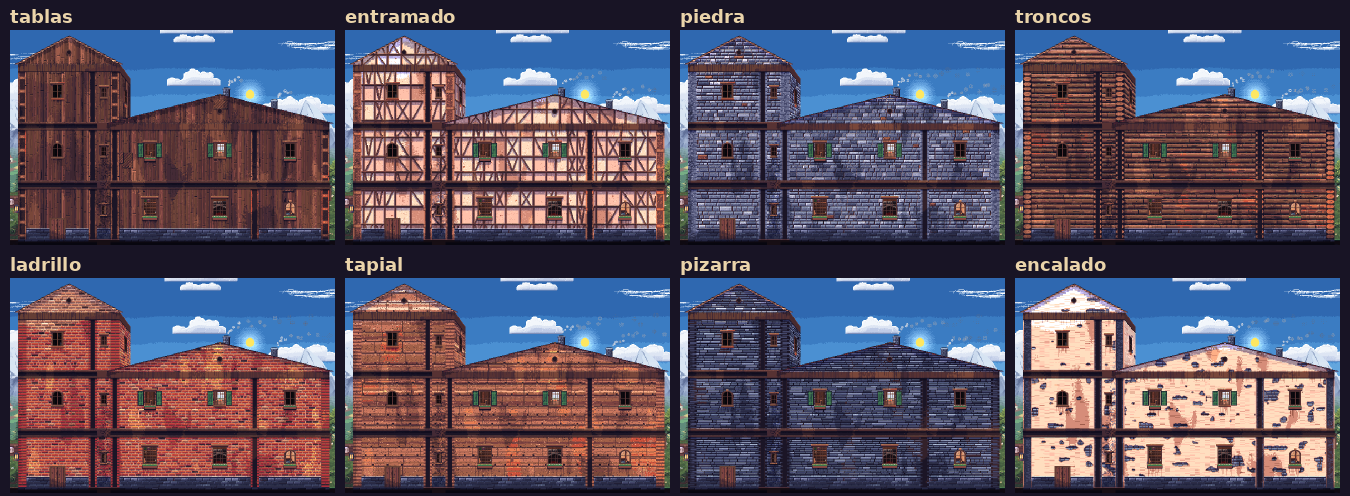
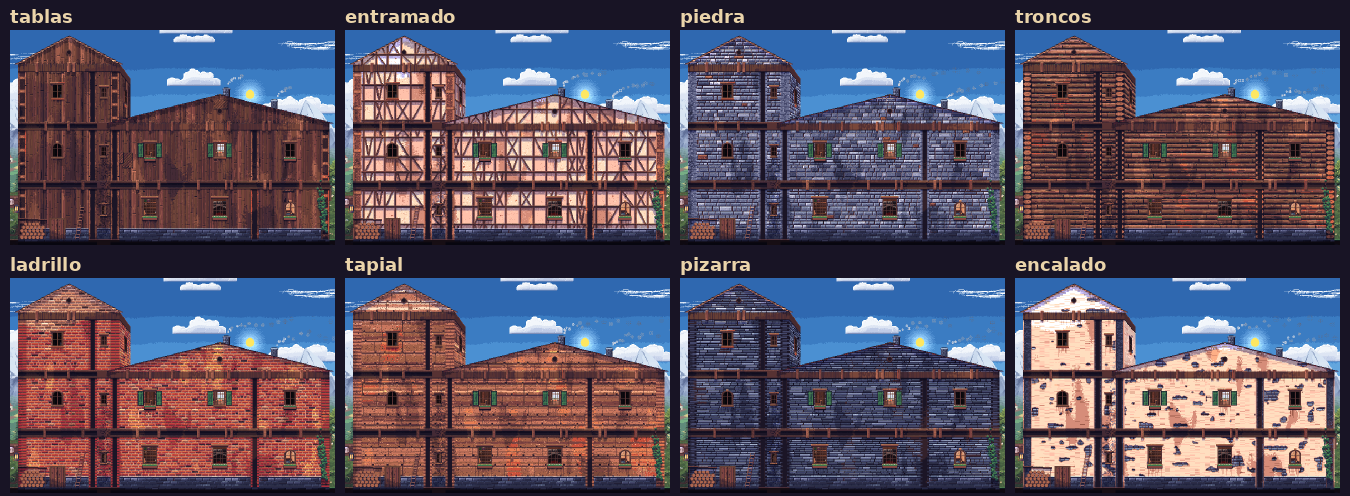
Fachada envejecida, pasos 6 y 7: testas de viga y detalles sueltos
En la vista desde fuera, las vigas de cada forjado asoman a saltos con su sombra.
Y unos pocos detalles fijos por partida en los huecos de la planta baja: hiedra
en una esquina, leña bajo un tejadillo, la bajante con el tonel de lluvia y una
escalera apoyada. La escena pasa la semilla de la partida a la tapa.

Claude-Session: https://claude.ai/code/session_011Wau2BQvy7vSDxLpNqRvSa

diff --git a/src/world/rooms/detalles.ts b/src/world/rooms/detalles.ts
@@ -1,0 +1,232 @@
+/**
+ * Lo que rompe la repetición de la fachada vista desde fuera: las testas de las vigas que
+ * asoman de cada forjado, con su sombra, y unos pocos detalles sueltos, fijos por partida
+ * (hiedra en una esquina, leña bajo un tejadillo, la bajante con su tonel de lluvia y una
+ * escalera apoyada). Todo pinta su relieve (`b.level`) para la luz con ambiente.
+ */
+import { Rng } from '../../core/rng';
+import { P } from '../../art/palette';
+import type { PixelBuffer } from '../../art/pixel';
+import { step } from './envejecer';
+
+/** Oscurece un escalón lo ya pintado (la sombra de algo que sale de la pared). */
+function shade(b: PixelBuffer, x: number, y: number) {
+  if (!b.inside(x, y)) return;
+  const i = y * b.w + x;
+  const c = b.data[i]!;
+  if (c >>> 24) b.data[i] = step(c, 'dark');
+}
+
+/**
+ * Las testas de las vigas a lo largo de un forjado (de `x0` a `x1`, con su cara de arriba en
+ * `y` y `h` de grueso): cada 14 a 30 píxeles, la punta de una viga de 6 × `h + 2` con los anillos
+ * en la testa, que sobresale y deja su sombra debajo y a un lado.
+ */
+export function beamEnds(
+  b: PixelBuffer,
+  x0: number,
+  x1: number,
+  y: number,
+  h: number,
+  rng: Rng,
+  avoid: (x: number) => boolean,
+): void {
+  // Cada tanto y a saltos (de dos en dos a veces, con huecos largos): no una fila de dientes.
+  for (let x = x0 + 10 + rng.int(0, 30); x < x1 - 10; x += 34 + rng.int(0, 46)) {
+    if (avoid(x)) continue;
+    const pair = rng.chance(0.3);
+    for (const xx of pair ? [x, x + 10] : [x]) {
+      if (xx >= x1 - 8) continue;
+      const w = 5;
+      const top = y - 1;
+      const bh = h + 2;
+      // La sombra: debajo (dos filas) y a la derecha (una columna), en la pared.
+      for (let i = 1; i <= w + 1; i++) {
+        shade(b, xx + i, top + bh);
+        shade(b, xx + i, top + bh + 1);
+      }
+      for (let j = 1; j < bh; j++) shade(b, xx + w, top + j);
+      b.level = 6;
+      b.rect(xx, top, w, bh, P.rust);
+      b.hline(xx, top, w, P.oak);
+      b.vline(xx, top, bh, P.oak);
+      b.hline(xx, top + bh - 1, w, P.bark);
+      b.vline(xx + w - 1, top + 1, bh - 1, P.bark);
+      // Los anillos de la testa y alguna raja.
+      b.set(xx + 2, top + Math.floor(bh / 2), P.bark);
+      b.set(xx + 2, top + Math.floor(bh / 2) - 1, P.cocoa);
+      if (rng.chance(0.5)) b.vline(xx + 1 + rng.int(0, 2), top + 1, 2 + rng.int(0, 2), P.bark);
+    }
+    b.level = 0;
+  }
+}
+
+/**
+ * Hiedra que trepa por una esquina: desde `x` (al pie, en `ground`) sube hasta `top`, más
+ * tupida abajo; los tallos, a tirones, y las hojas en matas de dos o tres tonos.
+ */
+export function ivy(
+  b: PixelBuffer,
+  x: number,
+  ground: number,
+  top: number,
+  dir: 1 | -1,
+  rng: Rng,
+): void {
+  const stems: { x: number; y: number }[] = [];
+  for (let s = 0; s < 4; s++) {
+    let sx = x + dir * rng.int(0, 10);
+    let sy = ground - 1;
+    const end = top + rng.int(0, Math.max(1, Math.floor((ground - top) * 0.5)));
+    while (sy > end) {
+      stems.push({ x: sx, y: sy });
+      sy -= 1;
+      if (rng.chance(0.3)) sx += dir * (rng.chance(0.65) ? 1 : -1);
+    }
+  }
+  b.level = 5;
+  for (const p of stems) b.set(p.x, p.y, P.bark);
+  // Matas de hojas a lo largo de los tallos: cada una, un grumo de 2 × 2 a 3 × 3.
+  for (const p of stems) {
+    const k = (ground - p.y) / Math.max(1, ground - top);
+    if (!rng.chance(0.42 - k * 0.22)) continue;
+    const r = rng.chance(0.5) ? 2 : 1;
+    const ox = p.x + rng.int(-2, 2);
+    const oy = p.y + rng.int(-1, 1);
+    for (let j = -r; j <= r; j++)
+      for (let i = -r; i <= r; i++) {
+        if (i * i + j * j > r * r + 1 || rng.chance(0.15)) continue;
+        b.set(ox + i, oy + j, j < 0 ? P.leaf : j === 0 ? P.forest : P.deep);
+      }
+    if (rng.chance(0.25)) b.set(ox, oy - r, P.lime);
+  }
+  b.level = 0;
+}
+
+/**
+ * Leña apilada contra la pared bajo un tejadillo de tablas: las testas de los troncos (con sus
+ * anillos) en tres o cuatro filas y, encima, el tejadillo con su sombra.
+ */
+export function woodpile(b: PixelBuffer, x: number, ground: number, rng: Rng): void {
+  const w = 40 + rng.int(0, 10);
+  const rows = 4 + rng.int(0, 1);
+  const r = 3;
+  // El tejadillo: tablas inclinadas sobre dos palos, y su sombra en la pared.
+  const roofY = ground - rows * 6 - 9;
+  for (let i = 0; i < w + 6; i++) for (let j = 1; j <= 3; j++) shade(b, x - 3 + i, roofY + 2 + j);
+  b.level = 4;
+  b.vline(x - 2, roofY + 2, ground - roofY - 2, P.bark);
+  b.vline(x + w + 1, roofY + 2, ground - roofY - 2, P.bark);
+  b.level = 6;
+  for (let i = 0; i < w + 8; i++) {
+    const yy = roofY + Math.floor((i * 3) / (w + 8));
+    b.set(x - 4 + i, yy, i % 6 === 0 ? P.plum : P.rust);
+    b.set(x - 4 + i, yy + 1, P.bark);
+    b.set(x - 4 + i, yy + 2, P.black);
+  }
+  // Los troncos, de abajo arriba, al tresbolillo.
+  b.level = 5;
+  for (let row = 0; row < rows; row++) {
+    const cy = ground - 4 - row * 6;
+    for (let cx = x + 3 + (row % 2) * 3; cx < x + w - 2; cx += 7) {
+      if (row === rows - 1 && rng.chance(0.3)) continue;
+      for (let j = -r; j <= r; j++)
+        for (let i = -r; i <= r; i++) {
+          if (i * i + j * j > r * r + 1) continue;
+          const edge = i * i + j * j > r * r - 1;
+          const ring = i * i + j * j <= 1;
+          b.set(cx + i, cy + j, edge ? (i + j > 0 ? P.bark : P.rust) : ring ? P.clay : P.oak);
+        }
+      b.set(cx, cy, P.rust);
+    }
+  }
+  b.level = 0;
+}
+
+/**
+ * La bajante del canalón, del alero (`top`) al suelo, con sus abrazaderas, y el tonel de lluvia
+ * al pie, de duelas y aros, con el agua asomando.
+ */
+export function rainBarrel(b: PixelBuffer, x: number, top: number, ground: number): void {
+  const bw = 16;
+  const bh = 20;
+  const bx = x - 6;
+  const by = ground - bh;
+  b.level = 4;
+  // El tubo: dos de ancho, con luz a la izquierda; acaba en un codo sobre el tonel.
+  for (let y = top; y < by - 2; y++) {
+    b.set(x - 1, y, P.steel);
+    b.set(x, y, P.slate);
+    b.set(x + 1, y, P.slate);
+    b.set(x + 2, y, P.navy);
+    shade(b, x + 3, y);
+    if ((y - top) % 22 === 10) {
+      b.hline(x - 2, y, 6, P.navy);
+    }
+  }
+  b.set(x - 1, by - 2, P.fog);
+  b.set(x - 1, by - 1, P.slate);
+  b.set(x, by - 2, P.slate);
+  // La sombra del tonel en la pared.
+  for (let j = 2; j < bh; j++) shade(b, bx + bw, by + j);
+  b.level = 5;
+  for (let j = 0; j < bh; j++) {
+    // Algo más ancho en medio (la panza).
+    const bulge = j > 2 && j < bh - 3 ? 1 : 0;
+    for (let i = -bulge; i < bw + bulge; i++) {
+      const k = (i + 3) % 3;
+      b.set(bx + i, by + j, i <= 0 ? P.rust : i >= bw - 1 ? P.bark : k === 0 ? P.cocoa : P.oak);
+    }
+  }
+  for (const j of [2, bh - 4]) b.hline(bx - 1, by + j, bw + 2, P.steel);
+  b.hline(bx, by, bw, P.black);
+  b.hline(bx + 1, by, bw - 2, P.ocean);
+  b.level = 0;
+}
+
+/** Una escalera de mano apoyada en la pared: dos largueros inclinados y los peldaños. */
+export function ladder(b: PixelBuffer, x: number, ground: number, h: number): void {
+  const lean = Math.round(h / 6);
+  const w = 7;
+  b.level = 6;
+  for (let j = 0; j < h; j++) {
+    const off = Math.round((lean * j) / h);
+    const yy = ground - 1 - j;
+    // La sombra a la derecha de cada larguero.
+    shade(b, x + off + 1, yy);
+    shade(b, x + off + w + 1, yy);
+    b.set(x + off, yy, P.oak);
+    b.set(x + off + w, yy, P.rust);
+    if (j % 6 === 3) {
+      b.hline(x + off + 1, yy, w - 1, P.clay);
+      for (let i = 1; i < w; i++) shade(b, x + off + i, yy + 1);
+    }
+  }
+  b.level = 0;
+}
+
+/** Dónde va cada detalle suelto (en el búfer), decidido por la semilla de la partida. */
+export function pickDetails(
+  seed: string,
+  gaps: number[],
+  edges: { left: number; right: number },
+): {
+  ivy: { x: number; dir: 1 | -1 } | null;
+  pile: number | null;
+  barrel: number | null;
+  ladder: number | null;
+} {
+  const rng = new Rng(`detalles-${seed}`);
+  const free = [...gaps];
+  const take = () => (free.length ? free.splice(rng.int(0, free.length - 1), 1)[0]! : null);
+  return {
+    ivy: rng.chance(0.75)
+      ? rng.chance(0.5)
+        ? { x: edges.left + 2, dir: 1 }
+        : { x: edges.right - 3, dir: -1 }
+      : null,
+    pile: rng.chance(0.7) ? take() : null,
+    barrel: rng.chance(0.7) ? take() : null,
+    ladder: rng.chance(0.5) ? take() : null,
+  };
+}

diff --git a/src/world/rooms/textures.ts b/src/world/rooms/textures.ts
@@ -37,6 +37,7 @@ import { BLIND, cellsOf, sconceOn, takeWallActs, windowX } from './salas/kit';
 import { RISE, goesRight, stepAt } from './stairs';
 import { streetDoor } from './salas/recibidor';
 import { cloth } from './salas/tintes';
+import { beamEnds, ivy, ladder, pickDetails, rainBarrel, woodpile } from './detalles';
 import { ageWall } from './envejecer';
 import { roofAt, roofRelief, wallFill } from './fachada';
 import { wallSection } from './muros';
@@ -956,8 +957,11 @@ export function outsideFace(
   L: RoomsLayout,
   look: FacadeLook,
   F: Facade,
+  seed = 'fuera',
 ): { buf: PixelBuffer; glass: PixelBuffer } {
   const b = F.buf.clone();
+  /** Centros de las ventanas y la puerta (en el búfer), para no tapar ninguna. */
+  const openings: { x: number; y: number }[] = [];
   // El cristal de cada ventana encendido (de noche): cálido, más claro abajo (la luz de la sala
   // sube del suelo y de las mesas), cada sala con su tono.
   const glass = new PixelBuffer(b.w, b.h);
@@ -1014,6 +1018,7 @@ export function outsideFace(
   ) => {
     const x = Math.round(cx - ox - w / 2);
     const y = Math.round(top - oy);
+    openings.push({ x: cx - ox, y: y + h / 2 });
     const r = w / 2;
     // El hueco: un rectángulo o, el de arco, con medio círculo arriba.
     const inside = (i: number, j: number) => {
@@ -1138,6 +1143,7 @@ export function outsideFace(
           // La puerta de la calle: dos hojas de tablas con su dintel, a ras del suelo.
           const x = Math.round(cx - ox - 11);
           const y = Math.round(top + ROOM_H - 36 - oy);
+          openings.push({ x: cx - ox, y: y + 18 });
           b.level = 3;
           b.rect(x - 3, y - 3, 28, 39, P.umber);
           b.level = 1;
@@ -1163,6 +1169,12 @@ export function outsideFace(
   }
   for (const s of stairCells(L))
     if (s.floor >= 0) window(s.rect.x + s.rect.w / 2, s.rect.y + 30, 8, 14, 'cuarterones');
+  // Las testas de las vigas en cada forjado (el de encima de cada sala), con su sombra.
+  const beams = new Rng(`vigas-${seed}`);
+  for (const { room, rect } of rooms) {
+    if (room.floor < 0) continue;
+    beamEnds(b, rect.x - ox, rect.x + rect.w - ox, rect.y - SLAB - oy, SLAB, beams, () => false);
+  }
   // Y todo, envejecido: la humedad del pie, los churretes bajo alféizares y aleros, paños y el
   // sol en lo alto (ver `envejecer.ts`).
   let top = 0;
@@ -1173,6 +1185,25 @@ export function outsideFace(
     sills,
     eaves: roofRuns(L).map((r) => ({ x0: r.x0 - ox, x1: r.x1 - ox, y: r.base - oy + 1 })),
   });
+  // Los detalles sueltos, fijos por partida: los huecos de la planta baja libres de ventanas y
+  // de la puerta (separados entre sí), y la hiedra en una esquina.
+  const left = L.left - ox;
+  const right = L.right - ox;
+  const low = openings.filter((o) => o.y > g - ROOM_H);
+  const gaps: number[] = [];
+  for (let x = left + 26; x < right - 26; x += 4)
+    if (low.every((o) => Math.abs(o.x - x) > 38) && gaps.every((v) => Math.abs(v - x) > 56))
+      gaps.push(x);
+  const d = pickDetails(seed, gaps, { left, right });
+  const rng2 = new Rng(`detalles-pinta-${seed}`);
+  const foot = g - PLINTH;
+  if (d.pile !== null) woodpile(b, Math.round(d.pile - 22), g, rng2);
+  if (d.barrel !== null) {
+    const run = roofRuns(L).find((r) => d.barrel! + ox > r.x0 + 8 && d.barrel! + ox < r.x1 - 8);
+    if (run) rainBarrel(b, Math.round(d.barrel), run.base - oy + 3, g);
+  }
+  if (d.ladder !== null) ladder(b, Math.round(d.ladder - 8), g, 62);
+  if (d.ivy) ivy(b, Math.round(d.ivy.x), foot + 6, g - ROOM_H - 40, d.ivy.dir, rng2);
   return { buf: b, glass };
 }
 

diff --git a/src/world/rooms/RoomScene.ts b/src/world/rooms/RoomScene.ts
@@ -1781,7 +1781,7 @@ export class RoomScene {
     // sin la luz ni el halo de las salas en su cara de fuera (`wrap` 0, `halo` 0). Aparece con
     // un fundido por tramas (`uFade`, ver `outside`).
     {
-      const { buf: img, glass } = outsideFace(L, look, F);
+      const { buf: img, glass } = outsideFace(L, look, F, model.seed);
       const corners: Corners = [
         at(F.x, fy1, -0.6),
         at(fx1, fy1, -0.6),

diff --git a/docs/plan-arte.md b/docs/plan-arte.md
@@ -103,7 +103,12 @@ npm run build`.
         pintadas de verde, azul o granate; alguna cerrada), uno por sala; con dintel, alféizar y
         a veces jardinera con flores; las del salón, más grandes (22 × 28, de seis paños). El
         cristal encendido de noche sigue la forma de cada una.
-  - [ ] 6. Vigas. — [ ] 7. Detalles. — [ ] 8. Resto.
+  - [x] 6. Testas de viga en cada forjado de la tapa (`beamEnds` en `rooms/detalles.ts`): a
+        saltos (alguna pareja, huecos largos), con anillos y su sombra debajo y al lado.
+  - [x] 7. Detalles sueltos, fijos por partida (la semilla, `pickDetails`), en los huecos de la
+        planta baja libres de ventanas y puerta: hiedra en una esquina, leña bajo un tejadillo,
+        la bajante con su tonel de lluvia y una escalera apoyada (no siempre salen todos).
+  - [ ] 8. Resto de materiales.
         Capturas en `capturas/fachada-envejecida/`.
 
 - [x] **Volumen con grosor** (`thick` en `salas/kit.ts`, `volume` en `RoomScene.ts`): lo suelto
